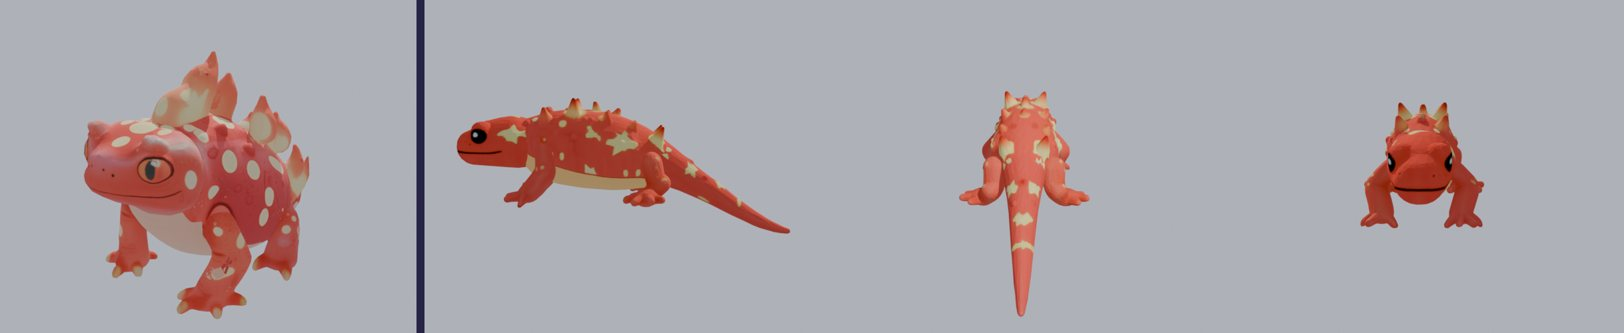
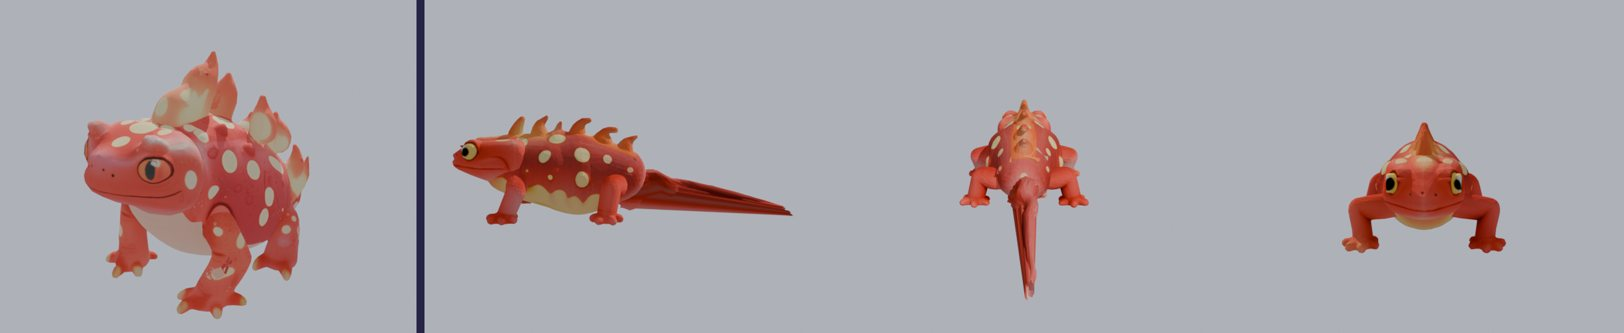
Croquis projet roblox 1

Changed region(s): [[0.2771, 0.3003, 0.4926, 0.7207], [0.585, 0.2703, 0.6773, 0.961], [0.8005, 0.3003, 0.9544, 0.7508]]

diff --git a/projet-roblox-1/index.html b/projet-roblox-1/index.html
@@ -17,7 +17,7 @@ figure{margin:0;background:var(--panel);border:1px solid var(--line);border-radi
 <li>Hydre : 3 essais, il fait un corps debout ou deux dragons collés.</li>
 <li>Renard à trois queues : 3 essais, il fait toujours 5 à 7 queues (renard à neuf queues des légendes).</li>
 <li>Loup : déjà refait (loup 10).</li></ul></div>
-<div class="box"><b>Corrigés après ton retour</b><ul><li>Renard : regénéré (patte arrière tordue et collerette derrière la tête sur l'ancien essai) : debout sur ses 4 pattes, une seule queue.</li><li>Lion étoilé, Lapin lunaire, Salamandre de feu, Tortue de cristal : regénérés (queue mal placée, enroulée, ou pattes arrière en palmes).</li><li>Kirin : queue de travers redressée dans l'axe du dos (les nouveaux essais devenaient de simples cerfs).</li></ul></div>
+<div class="box"><b>Corrigés après ton retour</b><ul><li>Renard : regénéré (patte arrière tordue et collerette derrière la tête sur l'ancien essai) : debout sur ses 4 pattes, une seule queue.</li><li>Lion étoilé, Lapin lunaire : regénérés (queue mal placée).</li><li>Salamandre de feu, Tortue de cristal, Kirin : <b>modèles d'origine gardés</b>, seule la queue est corrigée (déroulée et affinée, palmes ramenées en petite queue, queue remise dans l'axe).</li></ul></div>
 <p>Dis-moi ceux que tu refuses (je les regénère) ; les autres, je les mets dans le jeu avec toute la chaîne (squelette, peau propre, poils en relief).</p>
 <figure><img src="CerfEtoiles.jpg" alt="Cerf étoilé : actuel puis nouveau de profil, de dos et de face" loading="lazy"><figcaption><b>Cerf étoilé</b></figcaption></figure>
 <figure><img src="ChatGalactique.jpg" alt="Chat galactique : actuel puis nouveau de profil, de dos et de face" loading="lazy"><figcaption><b>Chat galactique</b></figcaption></figure>
